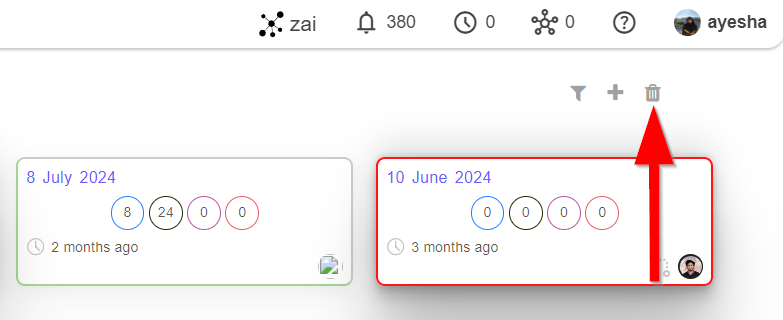
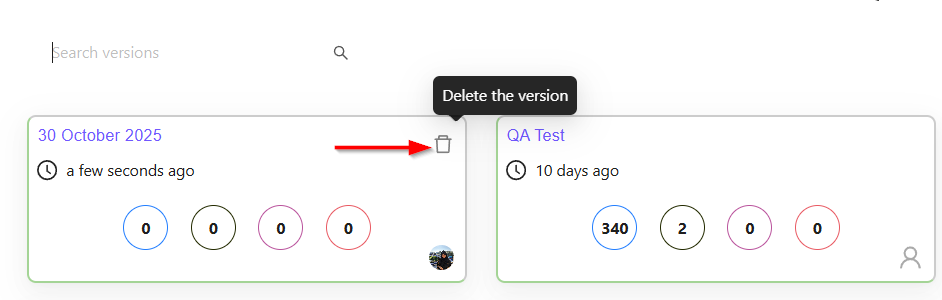
project docs

diff --git a/docs/zeuz-server/Project/Others/how-to-use-version-page.md b/docs/zeuz-server/Project/Others/how-to-use-version-page.md
@@ -3,123 +3,141 @@ id: version
 title: Version
 ---
 
-In software testing, a **Version** refers to a specific iteration or release of
-a software product. Versions are used to track the evolution of the software
-over time, documenting changes, improvements, bug fixes, and new features. Each
-version typically has a unique identifier, such as a version number (e.g., 1.0,
-2.1.3), which helps distinguish it from other releases.
+import MetaCard from '@site/src/components/MetaCard';
 
-### Key Aspects of a Version in Software Testing:
+A **Version** refers to a specific release or iteration of a software application. It represents a defined state of the product at a particular point in time, usually after new features, fixes, or improvements have been implemented.
 
-1. **Version Number:**
-   - A numerical or alphanumeric label assigned to a particular release of the
-     software (e.g., 1.0, 2.0, 2.1.4).
-  
-2. **Release Notes:**
-   - A summary of the changes, including new features, enhancements, and bug
-     fixes introduced in that version.
+Each version helps teams track changes, compare performance or results across builds, and ensure that testing aligns with the correct software release. Versions are often linked with milestones to monitor progress and quality before deployment.
 
-3. **Known Issues:**
-   - Documentation of any known bugs or limitations that exist in that version.
+<MetaCard
+  availableFrom="20250518"
+  difficulty="🟢 Easy"
+  lastUpdated="03 Nov, 2025"
+  relatedTopics={["Run tests", "CICD Run preset / Webhook", "Milestone", "Plan"]}
+/>
 
-4. **Test Cases:**
-   - The set of test cases that were executed to validate that version, ensuring
-     the software functions as expected.
+### Why it matters / Use Cases:
 
-### Importance of Versioning in Software Testing:
+- **Track Software Progress**: Helps teams monitor the evolution of the software across different releases.
+- **Compare Test Results**: Allows comparison of test outcomes between versions to identify regressions or improvements.
+- **Organize Test Execution**: Enables testers to execute and record tests against the correct software version.
+- **Ensure Release Accuracy**: Ensures that each test corresponds to the right build, avoiding confusion between old and new
+  functionalities.
+- **Support Continuous Improvement**: Facilitates clear documentation of changes, helping teams analyze product quality trends over time.
+- **Simplify Reporting**: Makes it easier to generate reports and summaries for a particular version or release cycle.
 
-- **Traceability:** Helps in tracking which changes or features were introduced
-  in specific versions, making it easier to identify when issues were
-  introduced.
-  
-- **Test Management:** Facilitates organized and systematic testing by ensuring
-  that each version is tested according to its unique set of changes.
+## Prerequisites
+- Access to ZeuZ Server with permissions for **Project → Others → Version**.
+- The user must have the necessary permissions or role (e.g., Project Admin or Editor) to create, edit, or delete Versions.
+- A Milestone should be created beforehand if the Version needs to be linked to a specific project phase.
+- The team should have clarity on what the Version represents (e.g., release number, build ID, or iteration goal).
+- Test cases, runs, or tasks should be ready so they can be properly assigned to the Version for tracking progress.
 
-- **Deployment:** Ensures that teams are aware of which version is currently
-  deployed in production and what changes it includes.
+## Quick-Start
+1. **Search Versions**: Use the search bar to locate a specific version by name.
+2. **Filter Versions**: Use the dropdown menu on the right (showing *Show all*, *Production*, *Dev*) to filter and view versions based on
+   environment or category.
+3. **View Version Summary**: Each version card displays key information such as:
+   - When the version was last updated.
+   - Number of associated test runs, passed tests, blocked tests, and failed tests.
+4. **Choose a Version to work with**: Click on any version card to open its detailed view and manage items linked to that version.
 
-- **Regression Testing:** Assists in identifying which previous functionalities
-  need to be retested when new versions are released.
+## Features
+### Create a new Version
+- The **Add New Version** window appears when the user clicks the **plus (+)** icon to create a new version. 
+- Key fields and available options are displayed below:  
+  - **Version Name**: The user enters the name of the new version (in this case, *30 October 2025*).
+  - **Dev Version (Checkbox)**: When selected, the version will be marked as a development version.
+  - **Do not update the version globally (Checkbox)**: If selected, the new version will be applied only within the current context and will not modify the global version settings for the entire project.
+- After entering all required details, select **ADD** to create the new version.
 
-With ZeuZ, you can track all four key aspeects mentioned above easily with the
-Version system.
+![](/img/how-tos/how-to-use-version-page/new-version.png)
 
-### What does the Version Page of ZeuZ show?
-
-The **Version** page in **ZeuZ** serves as a crucial tool for users to track the progress and status of various aspects of a software product across different versions. This page provides a visual overview of each version, allowing users to monitor key elements such as:
-
-- **Tasks**: The page allows users to see the tasks associated with each version, helping them understand what work has been completed or is still in progress for that particular release.
-
-- **Bugs**: Users can track the bugs identified in each version. This helps in understanding the stability and quality of the software, as well as in prioritizing bug fixes for future releases.
-
-- **Run IDs**: Each version lists the specific Run IDs, which correspond to the individual test executions. This allows users to drill down into the details of each test run, including when it was executed and what the outcomes were.
-
-- **Version Details**: The cards provide a snapshot of when each version was created (e.g., "2 months ago") and can include other relevant metadata such as the branch or staging environment used.
-
-This **Version** page is particularly useful for project managers, QA engineers, and developers who need to stay informed about the status of different versions of the software, ensuring that all aspects of testing, task management, and bug tracking are organized and easily accessible. It enhances visibility into the development and testing process, facilitating better decision-making and more efficient project management.
-
-## Steps
-
-1. From the **Project** menu, go to the **Version** option.
-
-![](/img/how-tos/how-to-use-version-page/version-option.png)
-
-2. Go to the **Version** page.
-
-![](/img/how-tos/how-to-use-version-page/version-page.png)
-
-### Version Card Representation
-
-- Shows the **Version** name.
-- Also shows the time when the version is created.
-- **Circle**:
-  - **Blue** colored circle of version card: *Run ID*
-  - **Black** colored circle of version card: *Test cases*
-  - **Pink** colored circle of version card: *Tasks*
-  - **Red** colored circle of version card: *Bugs*.
-- After clicking on the **Version Card**, it shows the **Tasks**, **Bugs** and **Run IDs**.
-- Besides, it also shows **Select option**, **Dev Status** and the **Profile image** of the user who creates the **Version**.
-
-![](/img/how-tos/how-to-use-version-page/version-represent.png)
-
-3. Click on the **Select** button of the version card to select any version card.
-
-![](/img/how-tos/how-to-use-version-page/select-version.png)
-
-4. After selecting any specific version card, its background outline will be **Red** since it will show zero number of **Tasks**, **Bugs**, **Test cases** and **Run IDs**.
-
-![](/img/how-tos/how-to-use-version-page/red-outline.png)
-
-5. Click on the **Delete** button for deleting any version card which contains no **Tasks**, **Bugs**, **Test Cases** and **Run IDs**.
+### Delete a Version
+- A **Trash-Bin** icon appears on a specific version card. When a user clicks this icon, ZeuZ allows the user to permanently delete that
+version from the project.
+- This action removes the version and its associated data from the version list, helping keep the workspace clean and organized.
 
 ![](/img/how-tos/how-to-use-version-page/delete-version.png)
 
 :::note
+A version cannot be deleted if it has linked items.
 
-Only those version cards can be deleted which will contain zero number of **Test cases**, **Tasks**, **Bugs** and **Run IDs**.
+![](/img/how-tos/how-to-use-version-page/not-delete.png)
 
 :::
 
-6. Click on the **Add New Version** button to create a new version.
+### Version card details
+- **Version Name** (at the top): Identifies the version currently being viewed.
+- **Timestamp** (e.g., *3 months ago*): Indicates when the version was last updated or worked on.
+- **List of Linked Items**: It refers to all work items connected to a specific version, including **Run IDs**, **Test cases**, **Tasks** or **Bugs**.
+- **Circle description**:
+  - The **blue** colored circle on the version card the total count of **Run IDs** associated with that version.
+  - The **black** colored circle on the version card represents the total count of **Test cases** associated with that version.
+  - The **pink** colored circle on the version card represents the total count of **Tasks** associated with that version.
+  - The **red** colored circle on the version card represents the total count of **Bugs** associated with that version.
+- **Delete Icon** (trash symbol): Allows the user to delete the version, provided it has no linked items.
+- It also displays the **Profile image** of the user who created the version in the bottom-right corner.
 
-7. Next click on the **ADD** button to create.
+![](/img/how-tos/how-to-use-version-page/version-details.png)
 
-![](/img/how-tos/how-to-use-version-page/add-version.png)
+## FAQs / Troubleshooting
+### FAQs
 
-8. If **Dev Version** is selected then the version card will show the **Dev Status** symbol on the lower right side.
+<details>
+<summary>What is a version?</summary>
 
-![](/img/how-tos/how-to-use-version-page/dev-version.png)
+A version represents a specific release or milestone of a project, grouping associated work items like test cases, tasks, bugs, and runs for
+tracking progress.
 
-![](/img/how-tos/how-to-use-version-page/dev-status.png)
+</details>
 
-9. Click on the **Add Filter** button for adding a filter.
+<details>
+<summary>How do I create a version?</summary>
 
-![](/img/how-tos/how-to-use-version-page/filter-version.png)
+Navigate to the version module, click on the **Plus (+)** icon, fill in the required details in the **Add New Version** window, and then click **ADD**.
 
-10. When a **Filter** is applied, it will show items based on that filter.
+</details>
 
-![](/img/how-tos/how-to-use-version-page/filter-base.png)
+<details>
+<summary>Can a version be linked to multiple milestones?</summary>
 
-11. Click on the **Search** button to search for a specific version. However, versions can also be searched by date range by clicking on the **Filter Date Range** button.
+No. Each version can be associated with only one milestone to maintain clear progress tracking.
 
-![](/img/how-tos/how-to-use-version-page/version-range.png)
+</details>
+
+<details>
+<summary>How are linked items displayed in a version?</summary>
+
+All connected work items including test cases, tasks, bugs, and run IDs are displayed within the version for easy tracking.
+
+</details>
+
+<details>
+<summary>Who can access or edit a version?</summary>
+
+Users with **Version Create/Edit permissions** can modify it. Others may have view-only access depending on their role.
+
+</details>
+
+### Troubleshooting
+
+- **Linked items not visible**: Check assignments, permissions, and refresh the page.
+- **Changes in version not reflecting in reports**: Ensure edits are saved and the correct version filter is applied.
+- **Cannot create version**: Fill in the mandatory fields and verify that the required permissions are granted.
+- **Profile image of creator not visible**: Refresh the page or ensure that a profile image is uploaded.
+- **Duplicate versions appearing**: Check whether the version was created twice, and delete the redundant entry or rename it accordingly.
+
+## Changelog
+
+- New UI has been introduced [[20250518](/blog/zeuz-platform-20250518/)]
+- Adopted a new card view [[20250518](/blog/zeuz-platform-20250518/)]
+
+## Related Topics
+
+- [Run tests](https://docs.zeuz.ai/docs/zeuz-server/testing/Deployments/run-tests/)
+- [CICD Run preset / Webhook](https://docs.zeuz.ai/docs/zeuz-server/testing/Deployments/ci-cd-run-preset-webhook/)
+- [Milestones](https://docs.zeuz.ai/docs/zeuz-server/Project/Others/milestones/)
+- [Plan](https://docs.zeuz.ai/docs/zeuz-server/testing/Deployments/test-plans/)
+
+---
